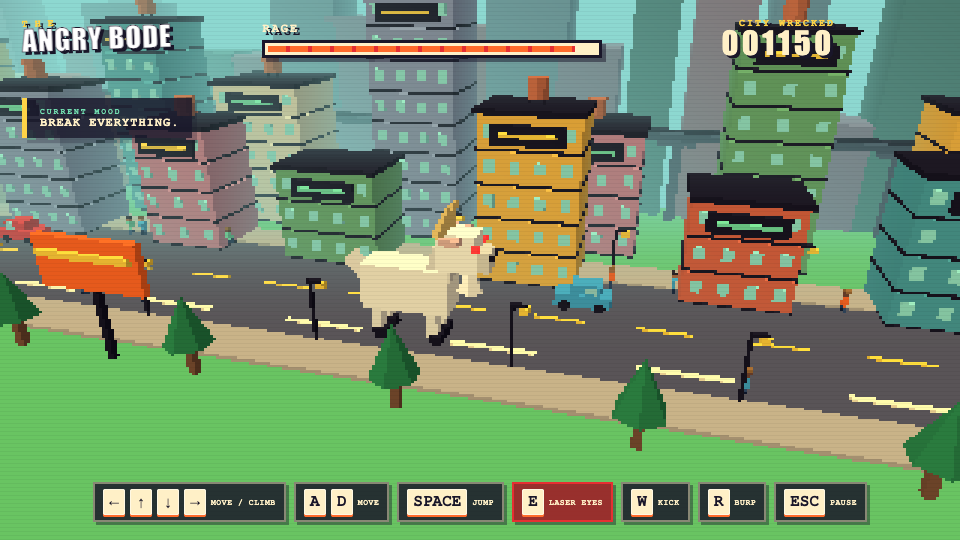
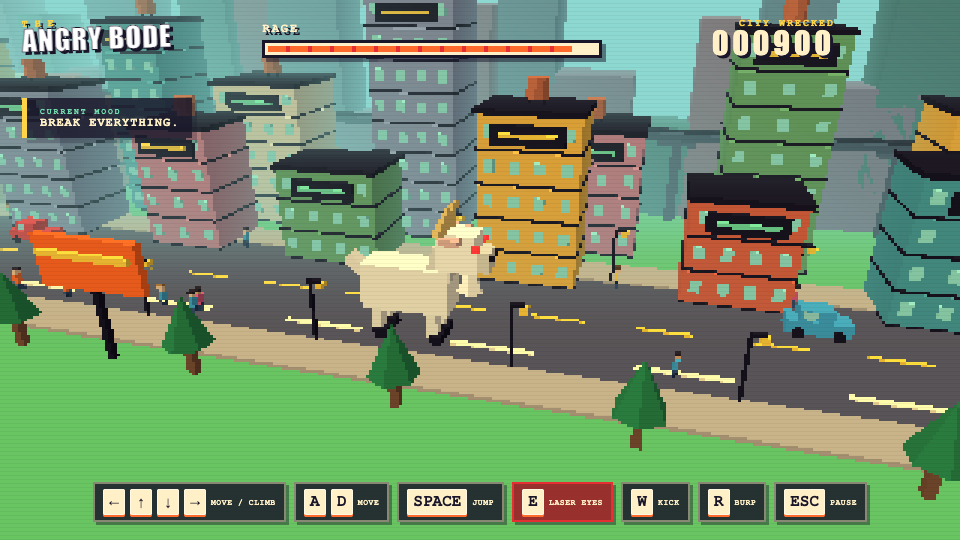
add gameplay media reel

diff --git a/pocs/angry-bode-gpt-5.6-sol/styles.css b/pocs/angry-bode-gpt-5.6-sol/styles.css
@@ -295,6 +295,77 @@ kbd {
   pointer-events: none;
 }
 
+.media-gallery {
+  position: absolute;
+  z-index: 4;
+  right: 34px;
+  bottom: 34px;
+  width: min(20vw, 290px);
+  padding: 8px;
+  border: 4px solid var(--ink);
+  background: var(--paper);
+  color: var(--ink);
+  box-shadow: 8px 8px 0 rgba(25,22,41,.45);
+  transform: rotate(1deg);
+}
+
+.media-gallery header {
+  display: flex;
+  justify-content: space-between;
+  align-items: center;
+  padding: 0 2px 6px;
+  font-size: 8px;
+  font-weight: 900;
+  letter-spacing: 1.5px;
+}
+
+.media-gallery header span {
+  color: var(--red);
+}
+
+.media-gallery a {
+  position: relative;
+  display: block;
+  overflow: hidden;
+  border: 3px solid var(--ink);
+  background: var(--ink);
+  color: white;
+  text-decoration: none;
+}
+
+.media-gallery img {
+  display: block;
+  width: 100%;
+  aspect-ratio: 16 / 9;
+  object-fit: cover;
+  image-rendering: pixelated;
+  transition: transform .15s steps(3), filter .15s;
+}
+
+.media-gallery a:hover img {
+  filter: saturate(1.35) contrast(1.08);
+  transform: scale(1.04);
+}
+
+.media-gallery a span {
+  position: absolute;
+  right: 0;
+  bottom: 0;
+  left: 0;
+  padding: 5px 6px 4px;
+  background: rgba(25,22,41,.9);
+  font-size: 7px;
+  font-weight: 900;
+  letter-spacing: .8px;
+}
+
+.media-stills {
+  display: grid;
+  grid-template-columns: 1fr 1fr;
+  gap: 6px;
+  margin-top: 6px;
+}
+
 @keyframes turn {
   to { transform: rotate(360deg); }
 }
@@ -524,6 +595,34 @@ h1 b {
   .mission {
     display: none;
   }
+
+  .media-gallery {
+    right: 14px;
+    bottom: 14px;
+    width: 190px;
+    padding: 5px;
+    border-width: 3px;
+    box-shadow: 5px 5px 0 rgba(25,22,41,.45);
+  }
+
+  .media-gallery header {
+    padding-bottom: 4px;
+    font-size: 6px;
+  }
+
+  .media-gallery a {
+    border-width: 2px;
+  }
+
+  .media-gallery a span {
+    padding: 3px 4px;
+    font-size: 5px;
+  }
+
+  .media-stills {
+    gap: 4px;
+    margin-top: 4px;
+  }
 }
 
 @media (max-width: 580px) {
@@ -588,5 +687,9 @@ h1 b {
     bottom: 3vh;
     width: 82vw;
     opacity: .72;
+  }
+
+  .media-gallery {
+    width: 142px;
   }
 }

diff --git a/pocs/angry-bode-gpt-5.6-sol/index.html b/pocs/angry-bode-gpt-5.6-sol/index.html
@@ -48,6 +48,23 @@
         <button id="start-button" type="button">UNLEASH THE BODE!</button>
         <p class="start-hint">PRESS ENTER OR TAP THE BUTTON</p>
       </div>
+      <aside class="media-gallery" aria-label="City tapes">
+        <header><b>CITY TAPES</b><span>PLAYBACK</span></header>
+        <a class="media-feature" href="assets/angry-bode-play.gif" target="_blank">
+          <img src="assets/angry-bode-play.gif" alt="Five-second Angry Bode gameplay loop">
+          <span>05 SEC // LIVE WRECKAGE</span>
+        </a>
+        <div class="media-stills">
+          <a href="assets/init-screen.png" target="_blank">
+            <img src="assets/init-screen.png" alt="Angry Bode opening screen">
+            <span>OPENING</span>
+          </a>
+          <a href="assets/gameplay-screen.png" target="_blank">
+            <img src="assets/gameplay-screen.png" alt="Angry Bode city gameplay">
+            <span>CITY</span>
+          </a>
+        </div>
+      </aside>
     </section>
     <section class="pause-screen" id="pause-screen" hidden>
       <p>DESTRUCTION PAUSED</p>